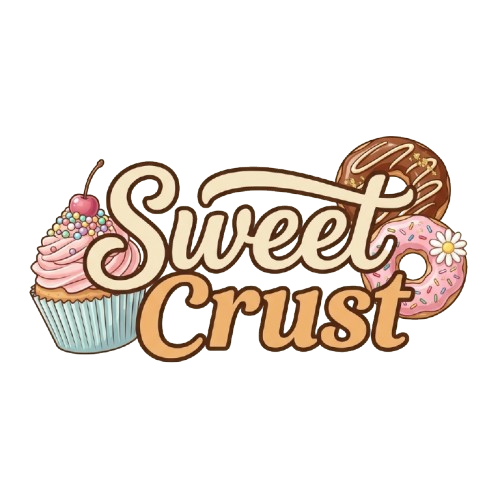
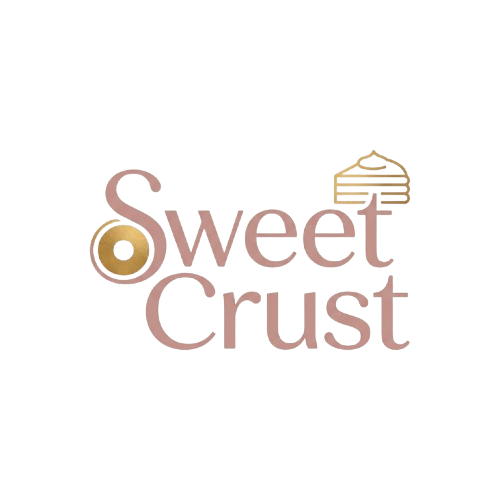
Update storefront branding and hero navigation

Changed region(s): [[0.06, 0.27, 0.96, 0.75]]

diff --git a/resources/views/storefront/index.blade.php b/resources/views/storefront/index.blade.php
@@ -9,13 +9,15 @@
             <span class="eyebrow"><i></i> BAKED FRESH FOR YOUR MOMENTS</span>
             <h1>Make today<br><em>a little sweeter.</em></h1>
             <p>Celebration cakes, creamy cheesecakes, brownies and donuts, freshly prepared and delivered with care.</p>
-            <a class="button button-dark" href="#shop">Explore cakes &amp; desserts <span>&#8599;</span></a>
-            @unless ($menuPage)<a class="button hero-menu-button" href="{{ route('storefront.menu') }}">View Menu <span>&#8599;</span></a>@endunless
+            <!-- <a class="button button-dark" href="#shop">Explore cakes &amp; desserts <span>&#8599;</span></a> -->
+            @unless ($menuPage)<a class="button button-dark" href="{{ route('storefront.menu') }}">View Menu <span>&#8599;</span></a>@endunless
             <div class="hero-proof"><span class="proof-stars">&#10003;</span><span>Freshly made &middot; Cash on delivery</span></div>
         </div>
         <div class="hero-visual" id="hero-slider" role="region" aria-roledescription="carousel" aria-label="SweetCrust bakery highlights">
-            <div class="hero-slide is-active" data-slide="0" data-slide-label="SweetCrust bakery video" role="group" aria-roledescription="slide" aria-hidden="false">
-                <video class="hero-media" autoplay muted loop playsinline preload="metadata" poster="{{ asset('images/products/Chocolate-Cake.jpg') }}" aria-label="SweetCrust featured video">
+           
+            <?php if($menuPage){ ?>
+             <div class="hero-slide is-active" data-slide="0" data-slide-label="SweetCrust bakery video" role="group" aria-roledescription="slide" aria-hidden="false">
+                <video class="hero-media" autoplay muted loop playsinline preload="metadata"  aria-label="SweetCrust featured video">
                     <source src="{{ asset('videos/sweetcrust-slider.mp4') }}" type="video/mp4">
                 </video>
                 <div class="hero-caption"><span>FRESHLY BAKED FOR YOUR MOMENTS</span><span>01 / 02</span></div>
@@ -24,13 +26,23 @@
                 <img class="hero-media" src="{{ asset('images/products/Chocolate-Cake.jpg') }}" alt="Fresh chocolate celebration cake" loading="lazy">
                 <div class="hero-caption"><span>MADE FOR YOUR CELEBRATIONS</span><span>02 / 02</span></div>
             </div>
-            <div class="hero-sticker"><span>BAKED WITH CARE</span><strong>Fresh daily</strong><span>For every sweet moment</span></div>
+             <div class="hero-sticker"><span>BAKED WITH CARE</span><strong>Fresh daily</strong><span>For every sweet moment</span></div>
             <div class="hero-slider-controls" aria-label="Featured slide controls">
                 <button type="button" data-slider-prev aria-label="Previous slide">&#8592;</button>
                 <div class="hero-slider-dots"><button type="button" data-slider-to="0" aria-label="Show bakery video" aria-pressed="true"></button><button type="button" data-slider-to="1" aria-label="Show cake" aria-pressed="false"></button></div>
                 <button type="button" data-slider-next aria-label="Next slide">&#8594;</button>
                 <span class="sr-only" id="hero-slide-status" aria-live="polite">Slide 1 of 2: SweetCrust bakery video</span>
             </div>
+            <?php }else{ ?>
+            <div class="hero-slide is-active" data-slide="0" data-slide-label="SweetCrust bakery video" role="group" aria-roledescription="slide" aria-hidden="false">
+                <video class="hero-media" autoplay muted loop playsinline preload="metadata"  aria-label="SweetCrust featured video">
+                    <source src="{{ asset('videos/sweetcrust-slider.mp4') }}" type="video/mp4">
+                </video>
+            </div>
+             <div class="hero-sticker"><span>BAKED WITH CARE</span><strong>Fresh daily</strong><span>For every sweet moment</span></div>
+            
+           <?php } ?>
+           
         </div>
         <div class="hero-side-note">A little sweetness, made fresh</div>
     </section>
